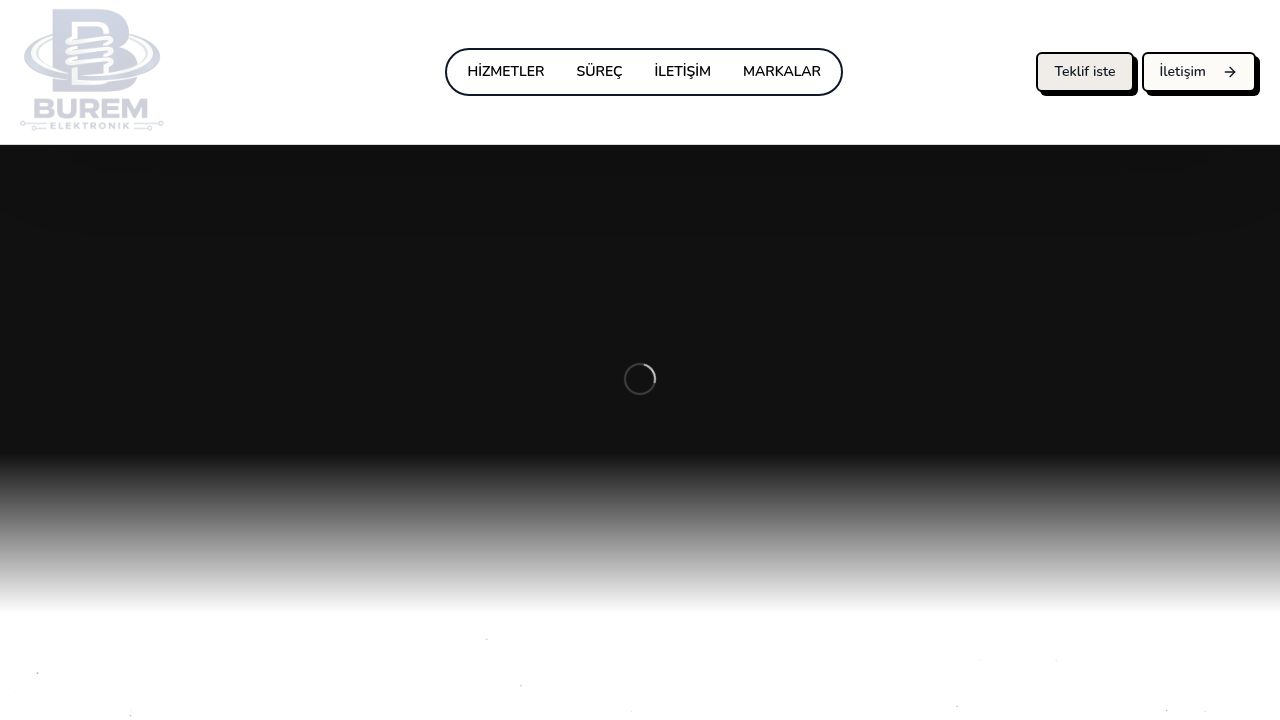
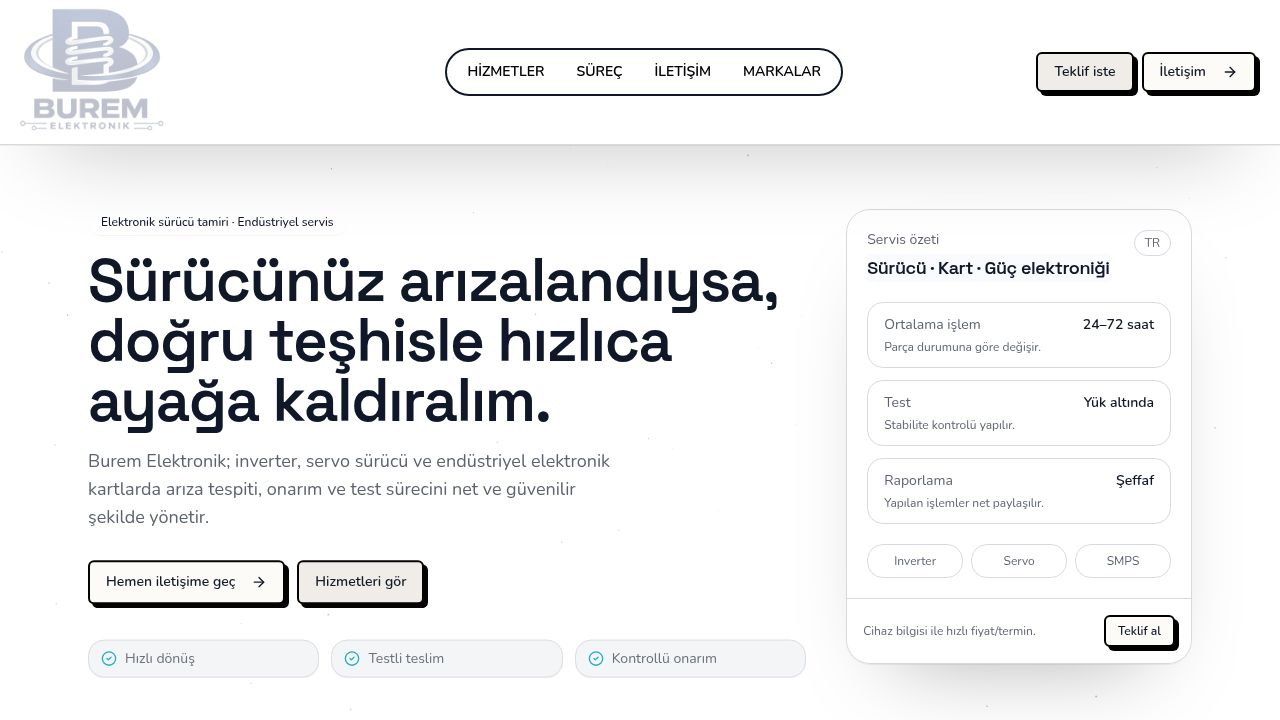
Add dark mode functionality with a toggle button and smooth transitions
Introduce a dark mode toggle button to the header, implement theme persistence using localStorage, and enable animated theme transitions using the View Transition API.

Replit-Commit-Author: Agent
Replit-Commit-Session-Id: 371f6235-2fde-4516-bc43-82dd514ff68f
Replit-Commit-Checkpoint-Type: full_checkpoint
Replit-Commit-Event-Id: 5893a29b-6a3a-435c-9cec-d526aa44d200
Replit-Commit-Screenshot-Url: https://storage.googleapis.com/screenshot-production-us-central1/220fef12-6025-4ca4-92d5-d8870d5c7179/371f6235-2fde-4516-bc43-82dd514ff68f/9Nv130V
Replit-Helium-Checkpoint-Created: true

diff --git a/client/src/components/ui/animated-theme-toggle-button.tsx b/client/src/components/ui/animated-theme-toggle-button.tsx
@@ -1,0 +1,127 @@
+"use client"
+
+import { useEffect, useRef, useState, useCallback } from "react"
+import { Moon, Sun } from "lucide-react"
+import { flushSync } from "react-dom"
+import { motion, AnimatePresence } from "framer-motion"
+import { cn } from "@/lib/utils"
+
+export type ThemeTransitionType = "horizontal" | "vertical"
+
+type AnimatedThemeToggleButtonProps = {
+  type: ThemeTransitionType
+  className?: string
+}
+
+function useThemeState() {
+  const [darkMode, setDarkMode] = useState(
+    () =>
+      typeof window !== "undefined"
+        ? document.documentElement.classList.contains("dark")
+        : false
+  )
+
+  useEffect(() => {
+    const sync = () => setDarkMode(document.documentElement.classList.contains("dark"))
+    const observer = new MutationObserver(sync)
+    observer.observe(document.documentElement, { attributes: true, attributeFilter: ["class"] })
+    return () => observer.disconnect()
+  }, [])
+
+  return [darkMode, setDarkMode] as const
+}
+
+function triggerThemeTransition(type: ThemeTransitionType) {
+  if (type === "horizontal") {
+    document.documentElement.animate(
+      { clipPath: ["inset(50% 0 50% 0)", "inset(0 0 0 0)"] },
+      {
+        duration: 700,
+        easing: "ease-in-out",
+        pseudoElement: "::view-transition-new(root)",
+      }
+    )
+  } else if (type === "vertical") {
+    document.documentElement.animate(
+      { clipPath: ["inset(0 50% 0 50%)", "inset(0 0 0 0)"] },
+      {
+        duration: 700,
+        easing: "ease-in-out",
+        pseudoElement: "::view-transition-new(root)",
+      }
+    )
+  }
+}
+
+export const AnimatedThemeToggleButton = ({
+  type,
+  className,
+}: AnimatedThemeToggleButtonProps) => {
+  const buttonRef = useRef<HTMLButtonElement>(null)
+  const [darkMode, setDarkMode] = useThemeState()
+
+  const handleToggle = useCallback(async () => {
+    if (!buttonRef.current) return
+
+    if (!document.startViewTransition) {
+      flushSync(() => {
+        const toggled = !darkMode
+        setDarkMode(toggled)
+        document.documentElement.classList.toggle("dark", toggled)
+        localStorage.setItem("theme", toggled ? "dark" : "light")
+      })
+      return
+    }
+
+    await document.startViewTransition(() => {
+      flushSync(() => {
+        const toggled = !darkMode
+        setDarkMode(toggled)
+        document.documentElement.classList.toggle("dark", toggled)
+        localStorage.setItem("theme", toggled ? "dark" : "light")
+      })
+    }).ready
+
+    triggerThemeTransition(type)
+  }, [darkMode, type, setDarkMode])
+
+  return (
+    <button
+      ref={buttonRef}
+      onClick={handleToggle}
+      aria-label={darkMode ? "Açık temaya geç" : "Koyu temaya geç"}
+      type="button"
+      data-testid="button-theme-toggle"
+      className={cn(
+        "flex items-center justify-center rounded-full border outline-none focus:outline-none focus:ring-0 cursor-pointer transition-colors",
+        darkMode ? "bg-zinc-900 border-zinc-700 text-yellow-400" : "bg-white border-gray-200 text-blue-900",
+        className
+      )}
+      style={{ width: 40, height: 40 }}
+    >
+      <AnimatePresence mode="wait" initial={false}>
+        {darkMode ? (
+          <motion.span
+            key="sun"
+            initial={{ opacity: 0, scale: 0.55, rotate: 25 }}
+            animate={{ opacity: 1, scale: 1, rotate: 0 }}
+            exit={{ opacity: 0 }}
+            transition={{ duration: 0.33 }}
+          >
+            <Sun size={18} />
+          </motion.span>
+        ) : (
+          <motion.span
+            key="moon"
+            initial={{ opacity: 0, scale: 0.55, rotate: -25 }}
+            animate={{ opacity: 1, scale: 1, rotate: 0 }}
+            exit={{ opacity: 0 }}
+            transition={{ duration: 0.33 }}
+          >
+            <Moon size={18} />
+          </motion.span>
+        )}
+      </AnimatePresence>
+    </button>
+  )
+}

diff --git a/client/src/pages/home.tsx b/client/src/pages/home.tsx
@@ -5,6 +5,7 @@ import { motion, useReducedMotion, AnimatePresence, useScroll, useMotionValueEve
 import { useLocation } from "wouter";
 import { SparklesCore } from "@/components/ui/sparkles-core";
 import { HeaderLogo } from "@/components/header-logo";
+import { AnimatedThemeToggleButton } from "@/components/ui/animated-theme-toggle-button";
 import { SparkleButton } from "@/components/ui/sparkle-button";
 import { useQuery } from "@tanstack/react-query";
 import type { Product } from "@shared/schema";
@@ -933,7 +934,7 @@ export default function HomePage() {
       transition={{ duration: 0.45, ease: [0.4, 0, 0.2, 1] }}
     />
     <motion.div 
-        className="min-h-screen bg-white text-gray-900" 
+        className="min-h-screen bg-background text-foreground" 
         onClick={handleGlobalClick}
         initial={{ opacity: 0, filter: "blur(12px)" }}
         animate={{ opacity: 1, filter: "blur(0px)" }}
@@ -965,7 +966,7 @@ export default function HomePage() {
 
       {/* Arka plan InteractiveGradient içinde yönetiliyor */}
       
-      <header className="sticky top-0 z-40 border-b bg-white/80 shadow-elevated backdrop-blur-md">
+      <header className="sticky top-0 z-40 border-b bg-background/80 shadow-elevated backdrop-blur-md">
         <div className="flex w-full items-center justify-between gap-3 px-4 py-0 md:px-6">
           <div className="-ml-25 -mt-12 mb-[-2.5rem]">
             <HeaderLogo />
@@ -996,6 +997,7 @@ export default function HomePage() {
               İletişim
               <ArrowRight className="ml-2 h-4 w-4" aria-hidden="true" />
             </MagneticButton>
+            <AnimatedThemeToggleButton type="vertical" />
           </div>
         </div>
       </header>

diff --git a/client/index.html b/client/index.html
@@ -21,6 +21,16 @@
     <link href="https://fonts.googleapis.com/css2?family=Space+Grotesk:wght@300..700&family=IBM+Plex+Sans:ital,wght@0,100..700;1,100..700&display=swap" rel="stylesheet" />
 
     <title>Burem Elektronik | Endüstriyel Sürücü Tamiri</title>
+    <script>
+      (function () {
+        try {
+          var t = localStorage.getItem("theme");
+          if (t === "dark" || (!t && window.matchMedia("(prefers-color-scheme: dark)").matches)) {
+            document.documentElement.classList.add("dark");
+          }
+        } catch (e) {}
+      })();
+    </script>
   </head>
   <body>
     <div id="root"></div>
